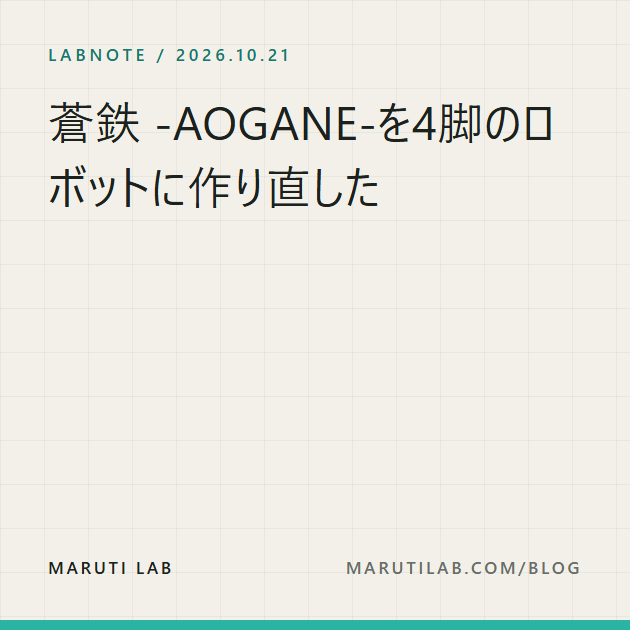
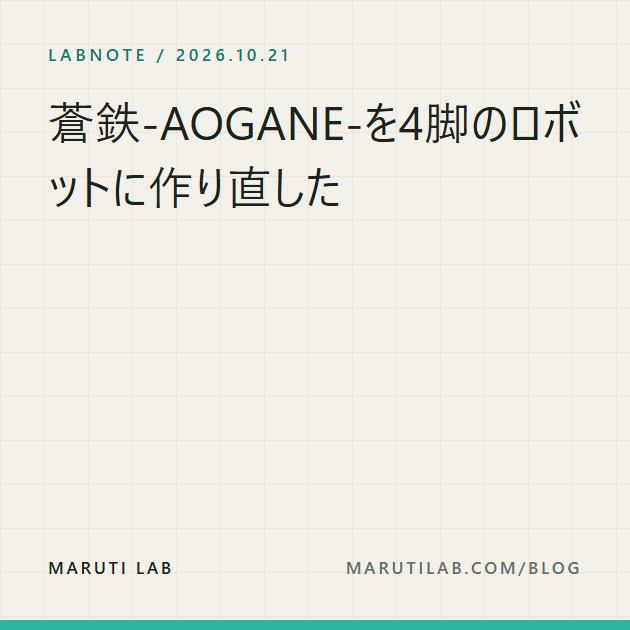
AOGANE note: no space before -AOGANE-, a pre-Blender shot, plainer Blender line, HMD spelled out once, a new close

Changed region(s): [[0.2413, 0.1508, 0.9349, 0.2413], [0.0603, 0.2413, 0.6032, 0.3317]]

diff --git a/content/posts/aogane-third-person.md b/content/posts/aogane-third-person.md
@@ -1,22 +1,25 @@
 ---
-title: 蒼鉄 -AOGANE-を4脚のロボットに作り直した
+title: 蒼鉄-AOGANE-を4脚のロボットに作り直した
 date: 2026-10-21
-description: 月面で戦うロボットゲーム「蒼鉄 -AOGANE-」の機体を、コードで組んだ形からBlenderに移し、4本脚で走るロボットに設計し直しました。速い戦車のように操る感触と、三人称視点にした話です。
+description: 月面で戦うロボットゲーム「蒼鉄-AOGANE-」の機体を、コードで組んだ形からBlenderに移し、4本脚で走るロボットに設計し直しました。速い戦車のように操る感触と、三人称視点にした話です。
 tags: [制作記, 蒼鉄]
 draft: true
 work: /aogane
 image: /og/blog/aogane-third-person.png
 ---
 
-「蒼鉄 -AOGANE-」は、暴走したAIに乗っ取られた月面の施設へ、旧式のロボットに乗って乗り込むブラウザゲームです。
+「蒼鉄-AOGANE-」は、暴走したAIに乗っ取られた月面の施設へ、旧式のロボットに乗って乗り込むブラウザゲームです。
 
 今回は、その蒼鉄の機体をまるごと作り直した数日間のお話です。
 
-## Blenderは一度も開いていません
+## 積み木のロボットをBlenderへ
 
 蒼鉄の敵や武器は、これまでthree.jsのコードの中で箱や筒を組み合わせて形を作っていました。プログラムで組み立てたロボットなので、どうしても積み木っぽさが抜けず、見るたびにもう少しなんとかならないかなと思っていました。
 
-そこで10月19日、敵の5機と武器、それに画面に映る自分の腕まで、全部Blenderで作り直すことにしました。とはいえ私はBlenderを一度も触ったことがありません。というか、今でも開いたことすらありません。やったのはClaude CodeのOpus5.5に指示を出すことだけで、Blenderの操作からゲームへの組み込みまで、全部Opusがやっています。
+![Blenderに移す前の画面。右下の銃も、奥の敵も、コードで箱や筒を組み立てた形](/blog/aogane-before-blender.jpg)
+*Blenderに移す前の形。今のゲームを当時の部品に切り替えて撮り直したものです*
+
+そこで10月19日、敵の5機と武器、それに画面に映る自分の腕まで、全部Blenderで作り直すことにしました。私はBlenderを触ったことがないので、Blenderの操作からゲームへの組み込みまでは、Claude CodeのOpus5.5にお願いしています。
 
 ![Blenderで作り直した敵が並ぶゲーム画面](/blog/aogane-blender-hostiles.jpg)
 *Blenderで作り直した敵と武器。この頃はまだ一人称でした*
@@ -58,14 +61,14 @@ image: /og/blog/aogane-third-person.png
 
 ## 見えない機体には乗れない
 
-蒼鉄はもともと、パイロットのAOIがヘルメットのHMD越しに戦う一人称のゲームでした。画面に見えるのは銃と腕だけです。
+蒼鉄はもともと、パイロットのAOIがヘルメットのHMD（ヘッドマウントディスプレイ）越しに戦う一人称のゲームでした。画面に見えるのは銃と腕だけです。
 
 ![一人称だった頃の画面。右下に銃だけが見える](/blog/aogane-first-person.jpg)
 *一人称だった頃。見えるのは銃と腕だけでした*
 
 それを10月20日から、機体の右肩越しに見る三人称視点を標準にしました。理由はいくつかあって、ひとつは胴体を回転式にしたので、脚と胴のズレが目に見えたほうが操作しやすいと思ったこと。もうひとつは、4本脚が走ったり着地で沈み込んだりする様子が見えたほうが面白いかなと思ったこと。それと、なんだかんだで一人称より三人称のほうが間口が広くなるかな、というのもありました。
 
-まあ、そもそも見せたくなるくらい機体をいい感じに仕上げてもらえたから、というのも大きいんですけど。Vキーを押せば一人称にも戻せて、どちらを選んだかはゲームが覚えています。
+まあ、そもそも見せたくなるくらい機体をいい感じに仕上げてもらえたから、というのも大きいんですけど。Vキーを押せば一人称にも戻せて、次に遊ぶときも最後に選んだ視点のまま始まります。
 
 ![三人称視点で戦う蒼鉄。画面の手前に機体がいて、奥に月面の施設と敵が見える](/blog/aogane-third-person.jpg)
 *三人称視点の画面。上のBRIEFINGは最初の出撃で出る説明*
@@ -101,8 +104,8 @@ image: /og/blog/aogane-third-person.png
 ![格納庫で4本脚の蒼鉄の横に立つアオイ。窓の外に地球が見える](/blog/aogane-key-art.jpg)
 *新しいキーアート。4本の脚の先に車輪がついた今の蒼鉄*
 
-振り返ってみると、Blenderの使い方も4本脚の関節の動かし方も、私はさっぱりわからないままここまで来ています。わかっていたのは、どんな機体に乗りたいかと、出てきたものの何が変なのかだけ。それだけでも、調べてと一言添えれば作れてしまうのが今のAIなんだなと思います。
+Webカメラで顔の向きを読み取って胴を回し、脚と腕はそれぞれ別々に動かす。ゴーグルをかぶらなくても、VRのようにロボットに乗り込んで操縦している感覚が出せないかと思って作ってきましたが、だいぶ当初思い描いていたロボの操作感に近づいてきました。
 
-[蒼鉄 -AOGANE-](/aogane)はPCのブラウザで遊べます。物乞いの手から12版かけてたどり着いた機体なので、ぜひ乗ってみてください。動かすのはちょっと難しいですけど。笑
+[蒼鉄-AOGANE-](/aogane)はPCのブラウザで遊べます。物乞いの手から12版かけてたどり着いた機体なので、ぜひ乗ってみてください。
 
 それでは、また。
